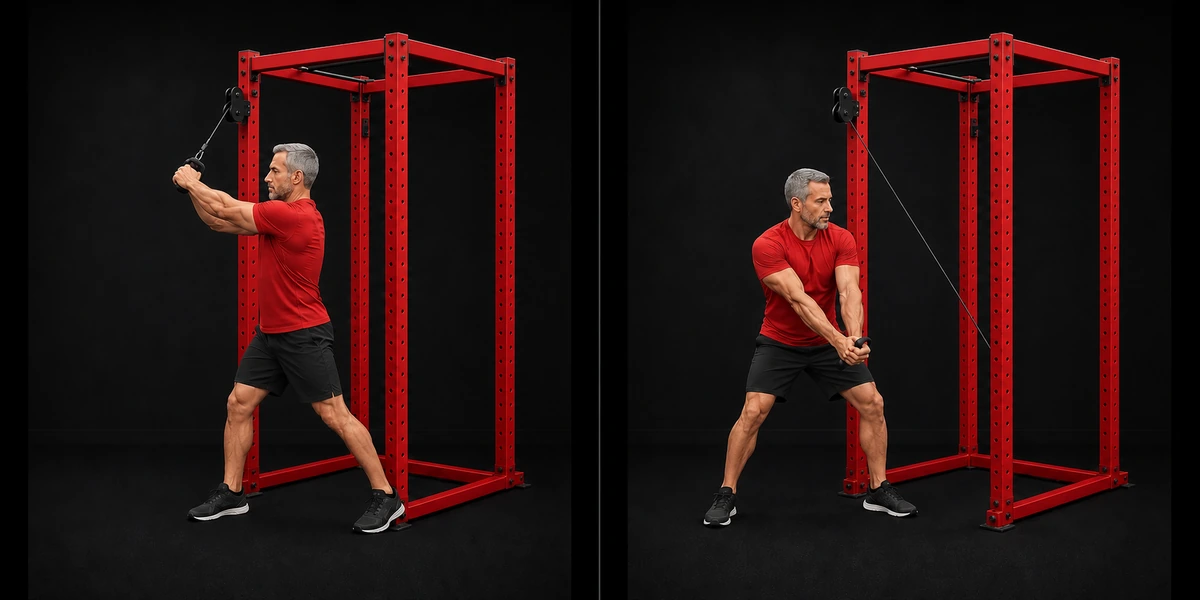
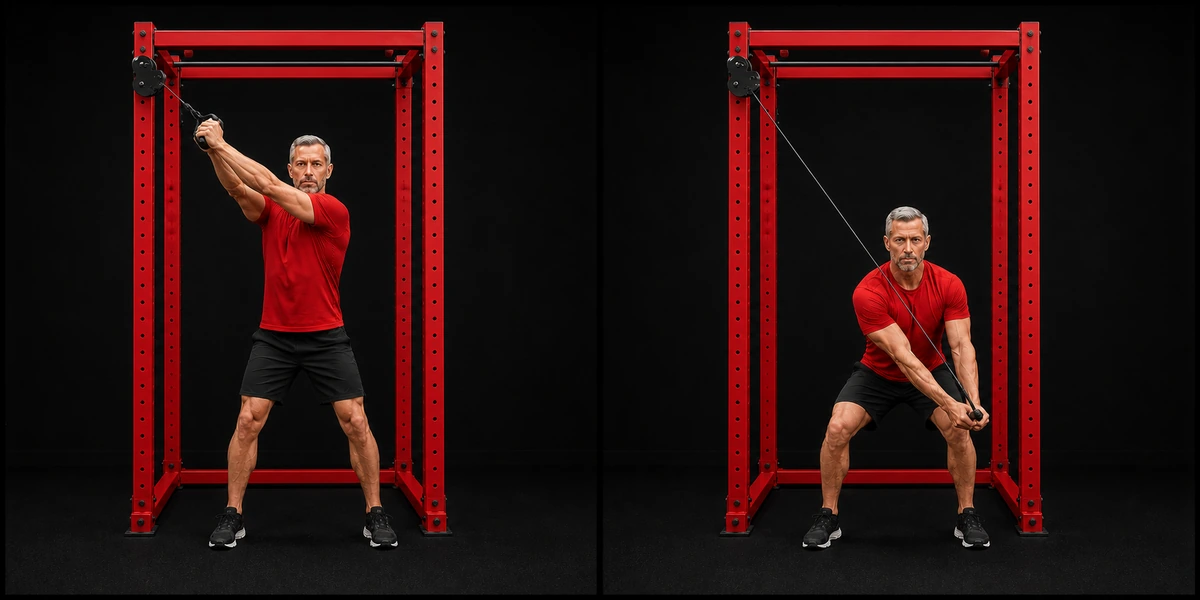
fix: correct high to low cable chop animation

Changed region(s): [[0.5858, 0.03, 0.9558, 0.93], [0.0925, 0.03, 0.4625, 0.93]]

diff --git a/app-meta.js b/app-meta.js
@@ -1,9 +1,9 @@
 (function (root) {
   root.ROAD12_META = Object.freeze({
     version: "13.2.0",
-    build: "2026.08.21.1",
+    build: "2026.08.21.2",
     lastUpdated: "August 21, 2026",
     gitCommit: null,
-    serviceWorkerCache: "road12-v13-2-53-shell"
+    serviceWorkerCache: "road12-v13-2-54-shell"
   });
 })(typeof self !== "undefined" ? self : window);

diff --git a/sw.js b/sw.js
@@ -1,5 +1,5 @@
 /* Keep this query aligned with app-meta.js so Safari cannot reuse stale imported metadata. */
-importScripts("./app-meta.js?build=2026.08.21.1");
+importScripts("./app-meta.js?build=2026.08.21.2");
 
 const CACHE=self.ROAD12_META.serviceWorkerCache;
 const MEDIA_CACHE=CACHE.endsWith("-shell")?`${CACHE.slice(0,-6)}-media`:`${CACHE}-media`;

diff --git a/docs/CHANGELOG.md b/docs/CHANGELOG.md
@@ -26,6 +26,8 @@ The format follows [Keep a Changelog](https://keepachangelog.com/en/1.1.0/), and
 
 ### Changed
 
+- Reworked the High-to-Low Cable Chop animation to show a front-facing athlete, one high cable travelling across the front of the torso, and a controlled finish beside the opposite knee.
+- Advanced the maintenance build to `2026.08.21.2` and rotated the offline caches for the two corrected cable-exercise animations.
 - Corrected the Cable Shoulder Press animation so the athlete faces away from the machine and both cables originate from the low pulleys mounted on the cage's two front uprights.
 - Advanced the maintenance build to `2026.08.21.1` and rotated the offline caches for the corrected exercise media.
 - Advanced the maintenance build to `2026.08.20.6` and rotated the offline caches for interactive exercise details from Workout Preview.

diff --git a/docs/PROJECT_CONTEXT.md b/docs/PROJECT_CONTEXT.md
@@ -6,10 +6,10 @@ Read this file at the beginning of every Codex or engineering session. It is the
 
 - Product: Road to 12%
 - Version: 13.2.0
-- Build: 2026.08.21.1
+- Build: 2026.08.21.2
 - Last updated: August 21, 2026
-- Service Worker cache: `road12-v13-2-53-shell`
-- Exercise media cache: `road12-v13-2-53-media`
+- Service Worker cache: `road12-v13-2-54-shell`
+- Exercise media cache: `road12-v13-2-54-media`
 - Runtime: static, client-only, offline-first PWA
 - Primary storage key: `road12v5`
 
